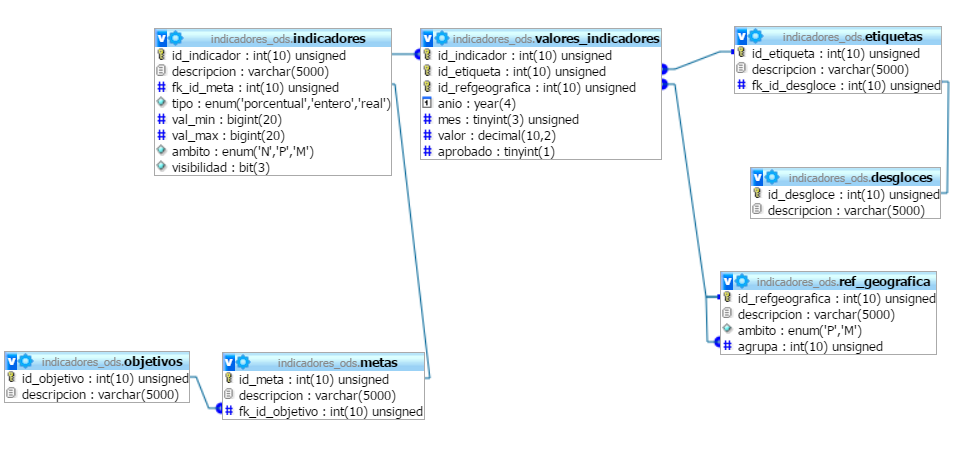
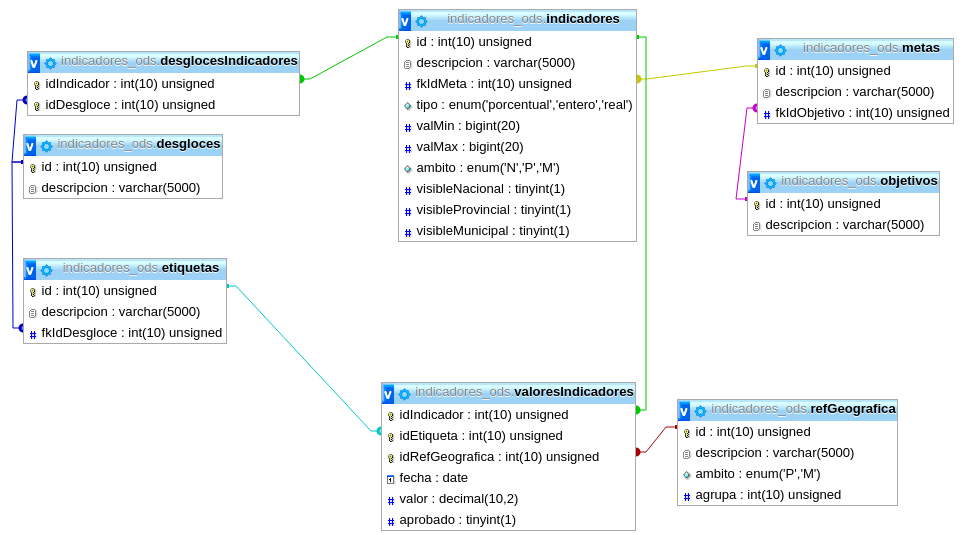
Checkpoint 18-10-2016

diff --git a/dev/src/AppBundle/Form/DesglocesPorIndicadorType.php b/dev/src/AppBundle/Form/DesglocesPorIndicadorType.php
@@ -1,0 +1,51 @@
+<?php
+
+namespace AppBundle\Form;
+
+use Symfony\Component\Form\AbstractType;
+use Symfony\Component\Form\FormBuilderInterface;
+use Symfony\Component\OptionsResolver\OptionsResolver;
+use Symfony\Component\Form\Extension\Core\Type\CheckboxType;
+use Symfony\Component\Form\Extension\Core\Type\ChoiceType;
+use Symfony\Component\Form\Extension\Core\Type\NumberType;
+use Symfony\Component\Form\Extension\Core\Type\IntegerType;
+use Symfony\Component\Form\Extension\Core\Type\TextareaType;
+use Symfony\Bridge\Doctrine\Form\Type\EntityType;
+use Symfony\Component\Form\FormEvent;
+use Symfony\Component\Form\FormEvents;
+
+class DesglocesPorIndicadorType extends AbstractType
+{
+    /**
+     * @param FormBuilderInterface $builder
+     * @param array $options
+     */
+    public function buildForm(FormBuilderInterface $builder, array $options)
+    {
+        $this_indicador = $options['idIndicador'];
+        $choice_desgloces = array();
+        foreach ($options['data'] as $key => $value) {
+            $newkey = $value->getId() . ". ". $value->getDescripcion();
+            $choice_desgloces[$key]=$newkey;
+        }
+            
+        $builder
+            //->add('objetivo', EntityType::class, array('label' => 'Objetivo', 'mapped' => false, 'class' => 'AppBundle:Objetivos', //'placeholder' => 'Seleccione un Objetivo',
+            //    'choice_label' => function ($objetivo) {
+            //    return $objetivo->getId(). "." . $objetivo->getDescripcion();
+            //    }, ))
+            ->add('tipo',  ChoiceType::class, array('label'  => 'Desgloces', 'required'=>true, 'choices' => $choice_desgloces,  'expanded'=>true, 'multiple'=>true, ))  
+        ;
+    }
+
+    /**
+     * @param OptionsResolver $resolver
+     */
+    public function configureOptions(OptionsResolver $resolver)
+    {
+        $resolver->setDefaults(array(
+            //'data_class' => 'AppBundle\Entity\Desgloces',
+            'idIndicador' => null,
+        ));
+    } 
+}

diff --git a/dev/src/AppBundle/Controller/DesglocesPorIndicadorController.php b/dev/src/AppBundle/Controller/DesglocesPorIndicadorController.php
@@ -1,0 +1,51 @@
+<?php
+
+namespace AppBundle\Controller;
+
+use Symfony\Component\HttpFoundation\Request;
+use Symfony\Bundle\FrameworkBundle\Controller\Controller;
+use Sensio\Bundle\FrameworkExtraBundle\Configuration\Method;
+use Sensio\Bundle\FrameworkExtraBundle\Configuration\Route;
+use AppBundle\Entity\Indicadores;
+use AppBundle\Entity\Desgloces;
+
+/**
+ * Indicadores controller.
+ *
+ * @Route("/admin/crud")
+ */
+class DesglocesPorIndicadorController extends Controller
+{
+    /**
+     * Poner qué hace!
+     *
+     * @Route("/desglocesporindicador/{id_indicador}", requirements={"id_indicador":"\d+"}, name="admin_crud_desglocesporindicador_new")
+     * @Method("GET")
+     */
+    public function newAction(Request $request, $id_indicador)
+    {
+        $em = $this->getDoctrine()->getManager();
+        $desgloces = $em->getRepository('AppBundle:Desgloces')->findAll();
+        $indicador = $em->getRepository('AppBundle:Indicadores')->findOneById($id_indicador);
+
+        //$desgloce = new Desgloces();
+
+        $form = $this->createForm('AppBundle\Form\DesglocesPorIndicadorType', $desgloces, array('idIndicador' => $indicador,));
+        $form->handleRequest($request);
+
+        if ($form->isSubmitted() && $form->isValid()) {
+            $em = $this->getDoctrine()->getManager();
+            $em->persist($indicadore);
+            $em->flush();
+
+            return $this->redirectToRoute('admin_crud_indicadores_show', array('id' => $desgloce->getId()));
+        }
+
+        return $this->render('indicadores/desglocesporindicador.html.twig', array(
+            'desgloces' => $desgloces,
+            'indicador' => $indicador,
+            'edit_form' => $form->createView(),
+            'nombre_indicador' => $indicador->getDescripcion(),
+        ));
+    }
+}

diff --git a/dev/src/AppBundle/Controller/IndicadoresController.php b/dev/src/AppBundle/Controller/IndicadoresController.php
@@ -50,7 +50,7 @@ class IndicadoresController extends Controller
             $em->persist($indicadore);
             $em->flush();
 
-            return $this->redirectToRoute('admin_crud_indicadores_show', array('id' => $indicadore->getId()));
+            return $this->redirectToRoute('admin_crud_desglocesporindicador_new', array('id_indicador' => $indicadore->getId()));
         }
 
         return $this->render('indicadores/new.html.twig', array(
